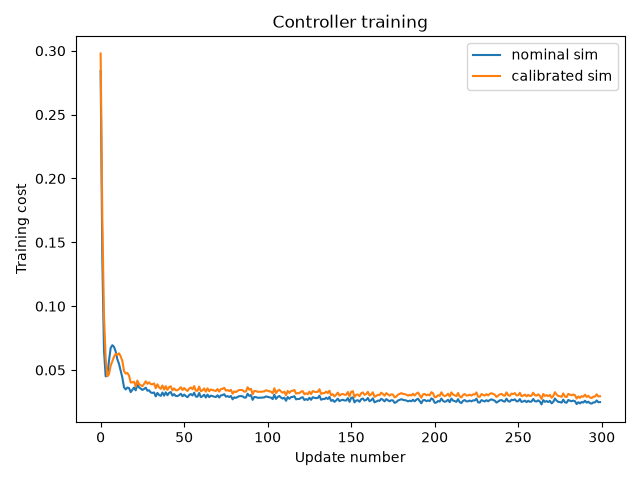
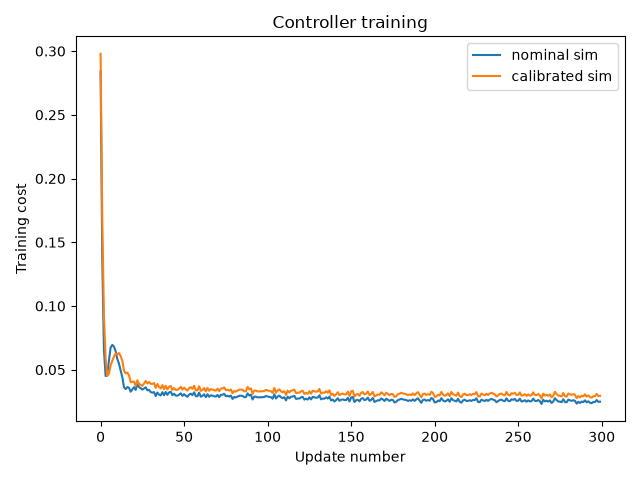
Complete M4 reference evaluation and prepare M5 write-up assignment

diff --git a/evaluate.py b/evaluate.py
@@ -1,28 +1,94 @@
+import csv
+from pathlib import Path
+
+import matplotlib.pyplot as plt
 import torch
+
 from calibrate import calibrate
 from policy import train_policy
 from real_robot import run_policy_on_real
-# For the plot (loss history) (./figures/m2_calibration_loss.png)
-from pathlib import Path
-import matplotlib.pyplot as plt
+
+
+def mean_holding_error(errors):
+    # Validate absolute angle errors and average the last 100 steps.
+    if errors.ndim != 2 or errors.shape[0] == 0 or errors.shape[1] < 100:
+        raise ValueError("Expected errors shaped (n, T), with n > 0 and T >= 100.")
+    if not torch.isfinite(errors).all():
+        raise ValueError("Evaluation errors contain NaN or infinity.")
+    if (errors < 0).any():
+        raise ValueError("Expected nonnegative absolute angle errors.")
+    return errors[:, -100:].mean().item()
+
+
+def error_reduction(nominal_error, calibrated_error):
+    # Return reduction in radians and percent; percent is undefined at zero.
+    absolute = nominal_error - calibrated_error
+    relative = None if nominal_error == 0 else 100 * absolute / nominal_error
+    return absolute, relative
 
 
 if __name__ == "__main__":
+    # Define settings once so training calls and saved metadata agree.
+    training_seed = 1
+    evaluation_seed = 123
+    training_iterations = 300
+    learning_rate = 0.01
+    project_root = Path(__file__).resolve().parent
+
     L_cal, b_cal, _ = calibrate()
-    p_nom = train_policy(torch.tensor(1.0), torch.tensor(0.1))
-    p_cal = train_policy(torch.tensor(L_cal), torch.tensor(b_cal))
-    for name, p in [("nominal sim", p_nom), ("calibrated sim", p_cal)]:
-        err = run_policy_on_real(p)[:, -100:].mean().item()
-        print(f"{name:15s} steady-state |error| on real robot: {err:.4f} rad")
+    p_nom = train_policy(torch.tensor(1.0), torch.tensor(0.1),
+                         iters=training_iterations, lr=learning_rate, seed=training_seed)
+    p_cal = train_policy(torch.tensor(L_cal), torch.tensor(b_cal),
+                         iters=training_iterations, lr=learning_rate, seed=training_seed)
 
-        # Plot the cost history for each policy
+    rows = []
+    controllers = [("nominal sim", p_nom), ("calibrated sim", p_cal)]
+    for name, p in controllers:
+        p.eval()
+        torch.manual_seed(evaluation_seed)
+        with torch.no_grad():
+            errors = run_policy_on_real(p)  # Absolute angle errors, shape (n, T).
+
+        err = mean_holding_error(errors)
+        print(f"{name:15s} shape={tuple(errors.shape)}, last-100 mean |error|: {err:.6f} rad")
+        rows.append({
+            "Controller": name,
+            "L": p.L,
+            "b": p.b,
+            "mean_abs_error_rad": err,
+            "training_seed": training_seed,
+            "evaluation_seed": evaluation_seed,
+            "training_iterations": training_iterations,
+            "learning_rate": learning_rate,
+            "num_trajectories": errors.shape[0],
+            "num_steps": errors.shape[1],
+        })
+
+    # Write only after both evaluations pass, keeping both rows in one file.
+    results_dir = project_root / "results"
+    results_dir.mkdir(exist_ok=True)
+    with (results_dir / "m4_comparison.csv").open("w", newline="") as f:
+        writer = csv.DictWriter(f, fieldnames=list(rows[0]))
+        writer.writeheader()
+        writer.writerows(rows)
+
+    abs_reduction, rel_reduction = error_reduction(rows[0]["mean_abs_error_rad"], rows[1]["mean_abs_error_rad"])
+    print(f"Absolute reduction: {abs_reduction:.6f} rad")
+    if rel_reduction is None:
+        print("Relative reduction: undefined (nominal error is zero)")
+    else:
+        print(f"Relative reduction: {rel_reduction:.2f}%")
+
+    # Preserve M3's training comparison; it is separate from reference error.
+    figures_dir = project_root / "figures"
+    figures_dir.mkdir(exist_ok=True)
+    plt.figure()
+    for name, p in controllers:
         plt.plot(p.cost_history, label=name)
-
-    Path("figures").mkdir(exist_ok=True)
     plt.xlabel("Update number")
     plt.ylabel("Training cost")
     plt.title("Controller training")
     plt.legend()
     plt.tight_layout()
-    plt.savefig("figures/m3_training_comparison.png")
+    plt.savefig(figures_dir / "m3_training_comparison.png")
     plt.close()

diff --git a/policy.py b/policy.py
@@ -44,7 +44,11 @@ def train_policy(L, b, iters=300, lr=0.01, seed=1):
         cost.backward() # Backpropagate the cost to compute gradients
         optimizer.step() # Update policy parameters based on gradients
 
+    # Store the cost history and other relevant information in the policy object for later analysis
     policy.cost_history = cost_history # Store the cost history in the policy for later analysis
-    
+    policy.L = L.item() # Store the value of L in the policy for reference
+    policy.b = b.item() # Store the value of b in the policy for reference
+    policy.seed = seed # Store the random seed used for training in the policy for reference
+
     return policy
 

diff --git a/calibrate.py b/calibrate.py
@@ -76,11 +76,13 @@ if __name__ == "__main__":
     print(f"Estimated damping: {b:.4f}")
 
     # Plot the loss history (./figures/m2_calibration_loss.png)
-    Path("figures").mkdir(exist_ok=True)
+    project_root = Path(__file__).resolve().parent
+    figures_dir = project_root / "figures"
+    figures_dir.mkdir(exist_ok=True)
     plt.plot(hist)
     plt.xlabel("Update number")
     plt.ylabel("Mean squared error")
     plt.title("Pendulum calibration")
     plt.tight_layout()
-    plt.savefig("figures/m2_calibration_loss.png")
+    plt.savefig(figures_dir / "m2_calibration_loss.png")
     plt.close()

diff --git a/Learning/M5.md b/Learning/M5.md
@@ -1,11 +1,34 @@
 # M5 — Results and README
 
-Status: Instructions not prepared yet. Waiting for your explicit request after the preceding milestone.
+Status: Ready to begin.
 
 [Back to START HERE](START%20HERE.md)
 
-No exercises or implementation instructions are assigned here yet.
+## Independent assignment — about 20–30 minutes
 
-## How this milestone contributes to what comes next
+Turn README.md into a short, reproducible report of the experiment you completed. Your end product is a GitHub visitor being able to understand the question, inspect the evidence, and rerun the comparison. Choose your own wording and layout. No new model or experiments are required.
 
-To be written with the full guide when you request it. This section will connect the skills, tools, and evidence you build here to the next milestone or final research explanation.
+## Start here
+
+Open `results/m4_comparison.csv` and the Results section in `README.md`. Fill the comparison table from that CSV, including each controller's training L and b and its measured mean absolute angle error. Label the error as **mean over the last 100 steps on the software reference system (rad)**. Round for readability; preserve the full-precision CSV.
+
+## Requirements
+
+1. Explain the experiment in your own words: reference motion data → fit simulator L and b → train nominal and calibrated controllers → compare both on the same reference system. Distinguish the parameters learned in calibration from those learned during controller training.
+2. Complete the results table and report absolute reduction in radians and relative reduction in percent. Link the saved CSV. Use the verified measurements, not expected outcomes.
+3. Embed one existing plot with a short caption. Choose `figures/m2_calibration_loss.png` or `figures/m3_training_comparison.png`; explain what it measures. Training cost alone does not prove better reference-system performance—the comparison table supplies that evidence.
+4. Add reproducible commands from the project root: create/activate a Python virtual environment, install `requirements.txt`, run the simulator tests, then run `evaluate.py`. Explain that evaluation repeats calibration and both training runs, and identify where it saves its outputs. Record training seed, evaluation seed, iterations, and learning rate from the CSV. If your chosen figure comes from `calibrate.py`, include that command too.
+5. Write 3–4 sentences interpreting the improvement and its limits. The reference is software, not physical hardware; one training seed and one evaluation setup do not establish reliability across all conditions. The final-window average can hide transient or individual-trajectory failures.
+6. Update the milestone checklist to reflect completed work. Remove stale starter instructions or machine-specific assumptions that would confuse another reader. Add a brief personal takeaway in WORKLOG.md; preserve your earlier notes.
+
+Useful Markdown syntax: `[label](relative/path)` for links, `![caption](figures/filename.png)` for images, triple backticks for command blocks, and `|` separators for tables. Use repository-relative paths in README so links work on GitHub.
+
+## Completion check
+
+- Numbers agree with the CSV, and units and averaging window are explicit.
+- The plot renders, and its caption distinguishes training evidence from evaluation evidence.
+- Commands match the actual project and identify generated outputs.
+- Conclusions distinguish measured findings from what remains untested.
+- README, WORKLOG, and linked artifacts are committed and pushed after review.
+
+Save your first table and say “check” for feedback. The assistant will review your writing and add the usual WORKLOG questions once your draft is ready. M5 finishes the core project; stretch experiments are optional.

diff --git a/WORKLOG.md b/WORKLOG.md
@@ -121,7 +121,7 @@ Assistant comments (corrections):
 ---------------------------------------------------------------------------------
 
 ## M3 — Controller Training
-Status: In Progress
+Status: Completed
 
 During one simulated trajectory, what changes at every time step—and what does the optimizer change afterward?
 -> th, om, torque(u) changes every time step (This time the policy sets the next torque unlike M2 where the torque is fixed)
@@ -188,7 +188,44 @@ Assistant comments (corrections):
 ---------------------------------------------------------------------------------
 
 ## M4 — Real-Pendulum Evaluation
-Status: Not started
+Status: Completed
+
+Reference system is the system we use to test whether our controllers work outside their training simulators. Is like a test pendulum that both controllers must control.
+
+A controller decides what action to take based on the current state. Basically M3's trained policy network
+
+Software stand-in: real_robot.py
+-> Code that acts like a real pendulum whose physical parameters you don’t know. It lets you practice the experiment without hardware.
+
+Training simulations and testing simulations differ
+
+with open("location...") creates a file at that location
+w = overwrites
+a = write in newline
+
+Absolute error reduction = nominal error − calibrated error
+Relative reduction = (nominal error − calibrated error) / nominal error × 100
+
+
+Questions:
+1. Why must both controllers be evaluated on the same reference system with matching conditions? What is the difference between the training seed and evaluation seed?
+-> For fair comparison. Training seed is for training simulations.
+
+2. What does each entry in the errors tensor represent, and why do we average all trajectories over only the last 100 time steps? What behavior could this summary miss?
+-> cost. Want to know how well the controllers are at staying in the target position which is the goal of this project. The other might stabalize at the target position faster.
+
+
+4. Using your measured results, explain in 3–4 sentences why calibration could improve transfer, whether this run supports that idea, and what one run cannot prove.
+-> Not sure
+
+
+Assistant comments (corrections):
+- Q1: Correct: matching conditions make the comparison fair. The training seed controls random network initialization and training starting states; the evaluation seed controls randomness used during testing. A seed only controls random operations that use it; matching the target, horizon, and starting conditions also matters.
+- Q2: Each errors[i, t] is the absolute angle difference from the target, in radians, for trajectory i at step t—not the training cost. The tensor here is (256, 300); averaging its last 100 columns measures late holding performance. Your point about settling faster is correct: this summary misses early behavior and can hide occasional large errors or poor individual trajectories.
+- Q4: Calibration fits the simulator to measured reference trajectories, so the controller trains with dynamics closer to the reference system. Here, mean holding error fell from 0.036721 to 0.004281 rad: a reduction of 0.032440 rad, or 88.34%. This supports improved transfer under the tested conditions. One run cannot establish reliability across training seeds, other operating conditions, or physical hardware; our reference is a software stand-in.
+- open() creates a file only in suitable modes such as "w" or "a"; its default "r" reads an existing file. "w" overwrites, while "a" appends to the end—it does not automatically add a newline. csv.writer/DictWriter handles row formatting.
+
+---------------------------------------------------------------------------------
 
 ## M5 — Results & README
 Status: Not started

diff --git a/Learning/START HERE.md b/Learning/START HERE.md
@@ -1,7 +1,7 @@
 # Start here — your Sim2Real Pendulum project
 
 Your working folder is **Desktop → Projects → sim2real-pendulum**.
-Everything you need to begin is here. All milestones are still yours to complete.
+M0–M4 are complete. M5 turns your verified work into the final report.
 
 ## First, get oriented
 
@@ -13,7 +13,7 @@ The guide's ZIP and **Original Desktop Starter** are untouched backups. Write co
 
 ## Learn one milestone at a time
 
-M0–M3 implementations have been reviewed. Begin [M4 — Reference-system evaluation](M4.md) as an independent assignment. The M5 guide remains a placeholder until requested.
+M0–M4 have been reviewed. Begin [M5 — Results and README](M5.md) to document the verified results.
 
 | Guide | Instruction status |
 |---|---|
@@ -21,8 +21,8 @@ M0–M3 implementations have been reviewed. Begin [M4 — Reference-system evalu
 | [M1](M1.md) | Implementation reviewed; simulator checks passed |
 | [M2](M2.md) | Calibration implemented and reviewed |
 | [M3](M3.md) | Controller training implemented and reviewed |
-| [M4](M4.md) | Guide ready; initial comparison verified |
-| [M5](M5.md) | Waiting for your request |
+| [M4](M4.md) | Completed; comparison saved and reviewed |
+| [M5](M5.md) | Guide ready; final write-up next |
 
 ## How a small step contributes
 
@@ -37,7 +37,7 @@ M0–M3 implementations have been reviewed. Begin [M4 — Reference-system evalu
 
 `real_robot.py` is a software stand-in for hardware. Use its public functions, not its hidden parameters. Better transfer is a hypothesis to test, not a guaranteed result.
 
-Run `pytest -q` for the simulator checks. Before M1 is implemented, **two `NotImplementedError` failures are expected**. M0 practice does not make those tests pass.
+Run `pytest -q` for the simulator checks. Both simulator checks passed in the reviewed implementation.
 
 ## Speed-run learning path
 
@@ -51,7 +51,7 @@ Use concrete assignments, short syntax explanations, and saved-file review. Save
 | M4 | Evaluate both policies under the same reference conditions | Final-100-step mean absolute errors |
 | M5 | Explain actual results and reproducible commands | Comparison table, one plot, concise explanation, GitHub checkpoint |
 
-Skip more image-classification tutorials, custom DataLoaders, CNNs, GPU setup, RL libraries, and stretch goals unless an actual task needs them. CPU is sufficient to begin. Better transfer is a hypothesis; report measured outcomes even if calibration does not improve them. Detailed M2–M5 guides will be prepared only when requested.
+Skip more image-classification tutorials, custom DataLoaders, CNNs, GPU setup, RL libraries, and stretch goals unless an actual task needs them. CPU is sufficient to begin. Better transfer is a hypothesis; report measured outcomes even if calibration does not improve them. All milestone guides are now available.
 
 ## Your everyday cycle
 
@@ -61,7 +61,7 @@ Saving changes files on your Mac. A Git commit records a local checkpoint. A pus
 
 When you have meaningful progress, run `git status`, inspect `git diff`, stage the specific files you changed with `git add`, and commit with an accurate message. Then run `git push`. Do not claim a milestone is complete until you have done and checked it.
 
-Keep small experimental plots in `figures/` and final tables in `results/`. Write only your actual results in the README. No exercise implementation or results have been supplied by this guide.
+Keep small experimental plots in `figures/` and final tables in `results/`. Write only your actual results in the README. Use the saved measurements as the source for the final report.
 
 ## Your personal learning assistant
 

diff --git a/Learning/M4.md b/Learning/M4.md
@@ -1,6 +1,6 @@
 # M4 — Reference-system evaluation
 
-Status: Ready to begin; an initial comparison has already run successfully.
+Status: Completed; evaluation results and WORKLOG explanations reviewed.
 
 [Back to START HERE](START%20HERE.md)
 
@@ -9,6 +9,10 @@ Status: Ready to begin; an initial comparison has already run successfully.
 Use `evaluate.py` to compare the nominal and calibrated controllers on the same reference system. You already implemented the main calls in M3. Now make the comparison reproducible, save the measured results, and explain them. Choose your own code organization; ask for hints or review as needed.
 
 The reference system is the software stand-in in `real_robot.py`, not physical hardware. Use only its public `run_policy_on_real` function, without reading its hidden parameters. No new network, training objective, or parameter search is required for this milestone.
+
+## First task
+
+Inspect your existing evaluation loop. Decide where to set matching evaluation conditions, where to keep the full error tensor, and how to retain both scalar results for saving.
 
 ## Requirements
 
@@ -30,10 +34,7 @@ Finish when `python evaluate.py` runs, both results are finite and evaluated und
 
 Running evaluate.py currently repeats calibration and both training runs. You do not need to run every Python file separately. A successful comparison need not always show improvement; do not tune on the reference results to force the expected outcome.
 
-## First task
-
-Inspect your existing evaluation loop. Decide where to set matching evaluation conditions, where to keep the full error tensor, and how to retain both scalar results for saving. Write your attempt, save, and say “check.” The assistant reviews your code without implementing it for you unless requested.
 
 ## Connection to M5
 
-M5 puts the verified parameters, comparison, plot, commands, and limitations into README.md and completes the GitHub checkpoint. Request the M5 guide after M4 review.
+M5 puts the verified parameters, comparison, plot, commands, and limitations into README.md and completes the GitHub checkpoint. Continue with [M5 — Results and README](M5.md).
